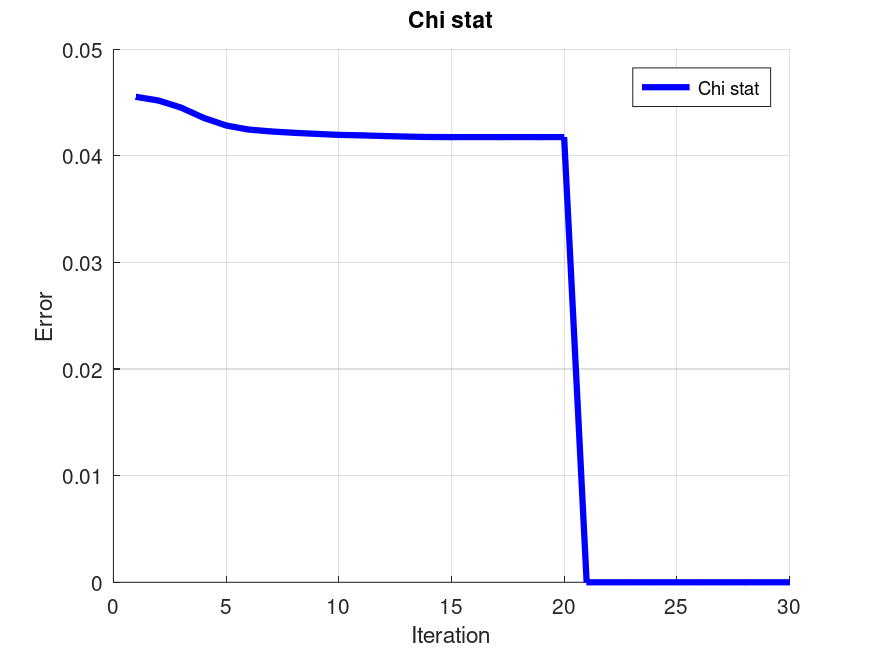
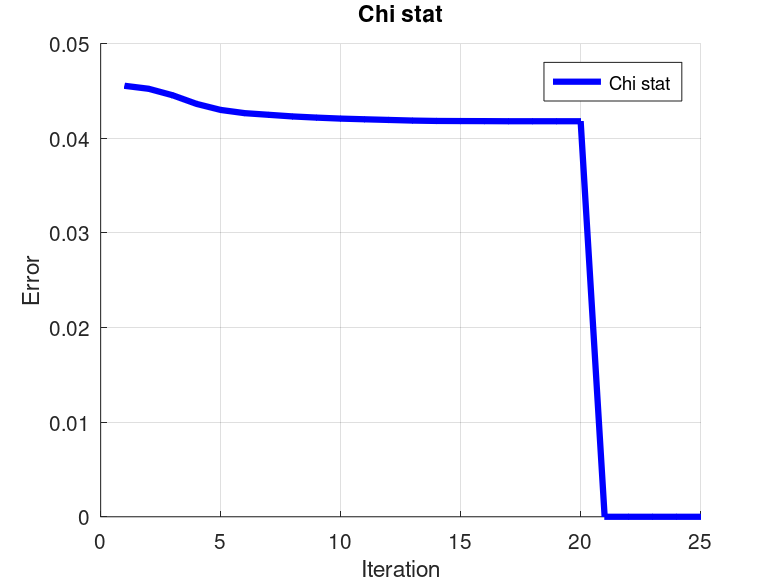
Small fixes: README, main and calibration

diff --git a/robot_calibration/calibration.m b/robot_calibration/calibration.m
@@ -96,14 +96,14 @@ function odometry_pose = odometry(x, delta_ticks, delta_time)
   endfor
 endfunction
 
-function [X_final, laser_f, chi_stats, n_inliers] = odometry_calibration(odometry_pose, tracker_pose, n_iter, jacobian)
+function [X_final, laser_f, chi_stats, n_inliers] = odometry_calibration(odometry_pose, tracker_pose, n_iter, jacobian_type)
 
   odometry_inc = new_pose(odometry_pose);
   tracker_inc  = new_pose(tracker_pose);
 
   state = [reshape(eye(3) + 0.001 * randn(3), [], 1); 1.5; 0; 1];
   threshold = 0.0000198;
-  c = 1e-9;
+  c = 0.000000002;
   d = 1.2;
 
   chi_stats = zeros(1, n_iter);
@@ -113,7 +113,7 @@ function [X_final, laser_f, chi_stats, n_inliers] = odometry_calibration(odometr
   max_step = 3;
 
   for i = 1:n_iter
-    [H, b, chi, inliers] = linear_s(state, odometry_inc, tracker_inc, threshold, jacobian);
+    [H, b, chi, inliers] = linear_s(state, odometry_inc, tracker_inc, threshold, jacobian_type);
     n_inliers(i) = inliers;
 
     lambda = c * max(diag(H));
@@ -136,7 +136,7 @@ function [X_final, laser_f, chi_stats, n_inliers] = odometry_calibration(odometr
 
     chi_stats(i) = chi;
     laser_params = state(end-2:end);
-    fprintf('Iteration %d: chi = %.2e, inliers = %d, laser=[%.3f,%.3f,%.3f]\n', i, chi, inliers, laser_params);
+    fprintf('Iteration %d: chi = %.2e, inliers = %d, laser = [%.3f,%.3f,%.3f]\n', i, chi, inliers, laser_params);
 
     if norm(d_state) < 1e-7 && i > 1 && abs(chi_stats(i) - chi_stats(i-1)) < 1e-7
       fprintf('Converged at iter %d: chi = %.6e\n', i, chi);
@@ -153,7 +153,7 @@ function [X_final, laser_f, chi_stats, n_inliers] = odometry_calibration(odometr
   laser_f = state(end-2:end);
 endfunction
 
-function [H, b, chi, inliers] = linear_s(state, odom_inc, tracker_inc, threshold, jacobian)
+function [H, b, chi, inliers] = linear_s(state, odom_inc, tracker_inc, threshold, jacobian_type)
   H = zeros(length(state)); b = zeros(length(state), 1);
   chi = 0; inliers = 0;
 
@@ -163,7 +163,7 @@ function [H, b, chi, inliers] = linear_s(state, odom_inc, tracker_inc, threshold
     z = tracker_inc(i,:)';
     e = error(state, u, z);
 
-    if jacobian
+    if jacobian_type
       J = Jacobian_numerical(@(s) error(s, u, z), state, 1e-5);
     else
       J = Jacobian_analytical(state, u, z);

diff --git a/main.m b/main.m
@@ -46,19 +46,18 @@ delta_time = delta_time(time);
 #odometry of front-tractor tricycle
 x_initial = [Ksteer, Ktraction, axis_length, steer_offset];
 odometry_pose = odometry(x_initial, delta_ticks, delta_time);
-
+%{
 #plot of: odometry, tracker and odometry estimated
 plot_odometry_trajectory(odometry_pose, model_pose, tracker_pose, moving, h, delta_time);
 pause(1);
-
 #plot of odometry estimated: L2 Norm error
 plot_odometry_error(model_pose, odometry_pose, h, time);
 pause(1);
-
+%}
 odometry_pose = odometry_pose(:, 1:3);
-n_iter = 30;
-
-[X, laser_params, chi_stats, n_inliers] = odometry_calibration(odometry_pose, tracker_pose, n_iter, true);
+n_iter = 25;
+jacobian_type = false; #set true for numerical jacobian and false for analytical jacobian
+[X, laser_params, chi_stats, n_inliers] = odometry_calibration(odometry_pose, tracker_pose, n_iter, jacobian_type);
 
 disp('Correction matrix X:')
 disp(X);

diff --git a/README.md b/README.md
@@ -79,7 +79,7 @@ Different thresholds are applied to $x$, $y$, $\theta$, and $\phi$ during the es
 The plot shows that the estimated trajectory closely follows the ground truth of the odometry pose.
 
 ### L2 norm error of odometry estimated:
-![L2_error_trajectory](./output/error_odometry_calibrated.png)
+![L2_error_trajectory](./output/error_odometry_estimated.png)
 This plot illustrates the L2 norm error over the trajectory. Two kinematic models were compared during the trajectory estimation:
 - realistic model: $dx = v * cos(\theta)*cos(\phi)*\Delta t$ and $dy = v * sin(\theta)*cos(\phi)*\Delta t$
 - simplified model: $dx = v * cos(\theta) * \Delta t$ and $dy = v * sin(\theta) * \Delta t$
